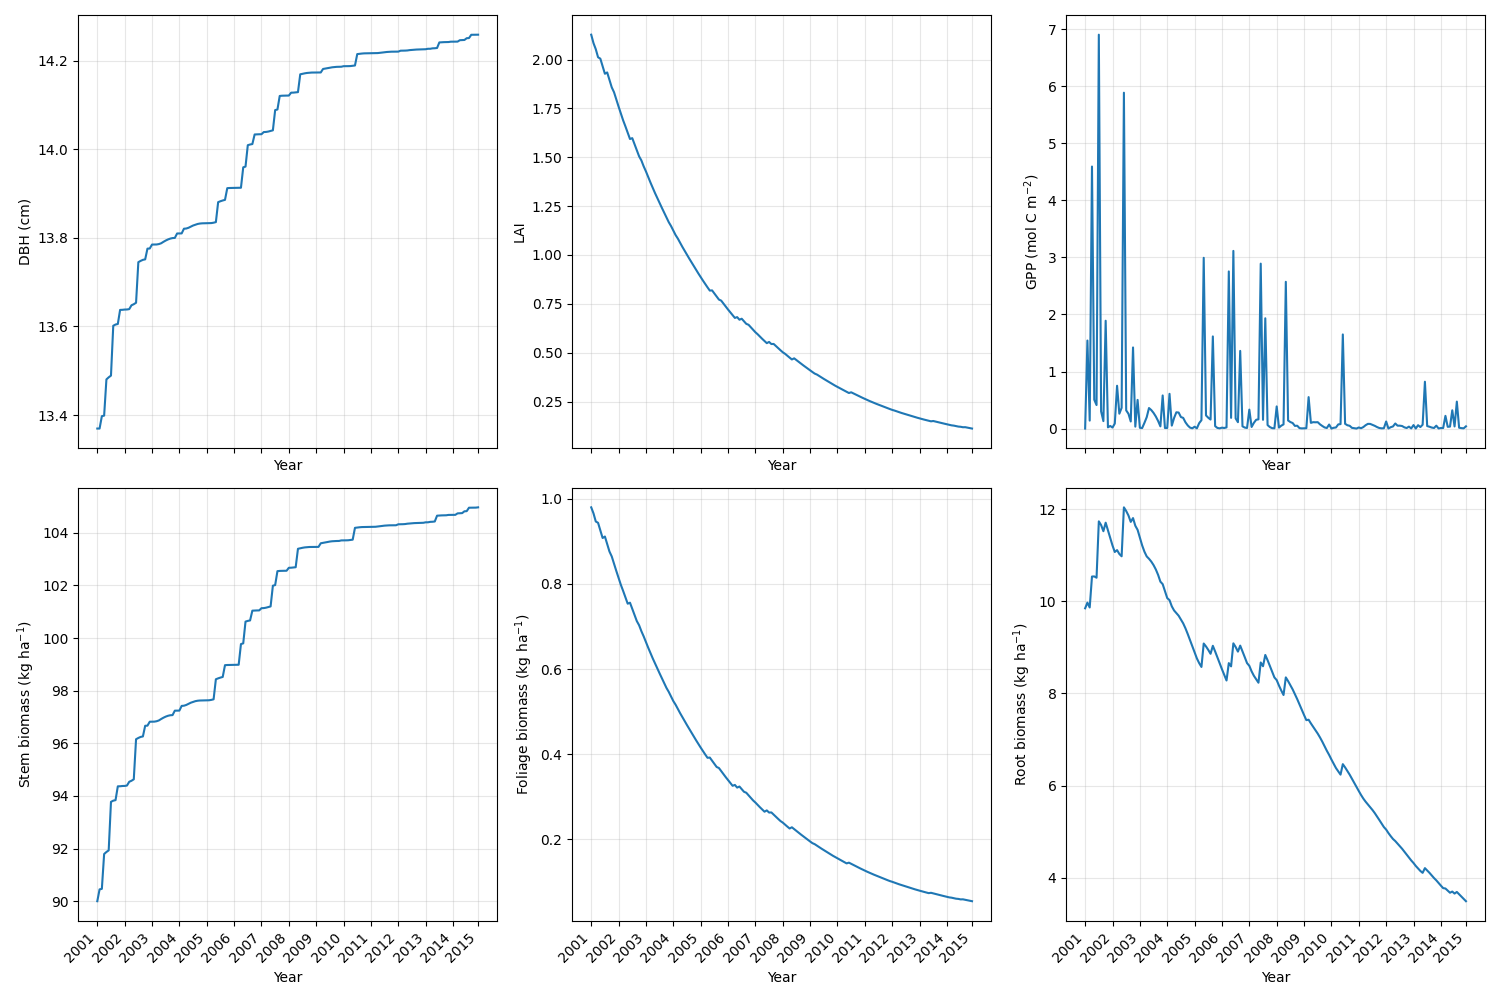
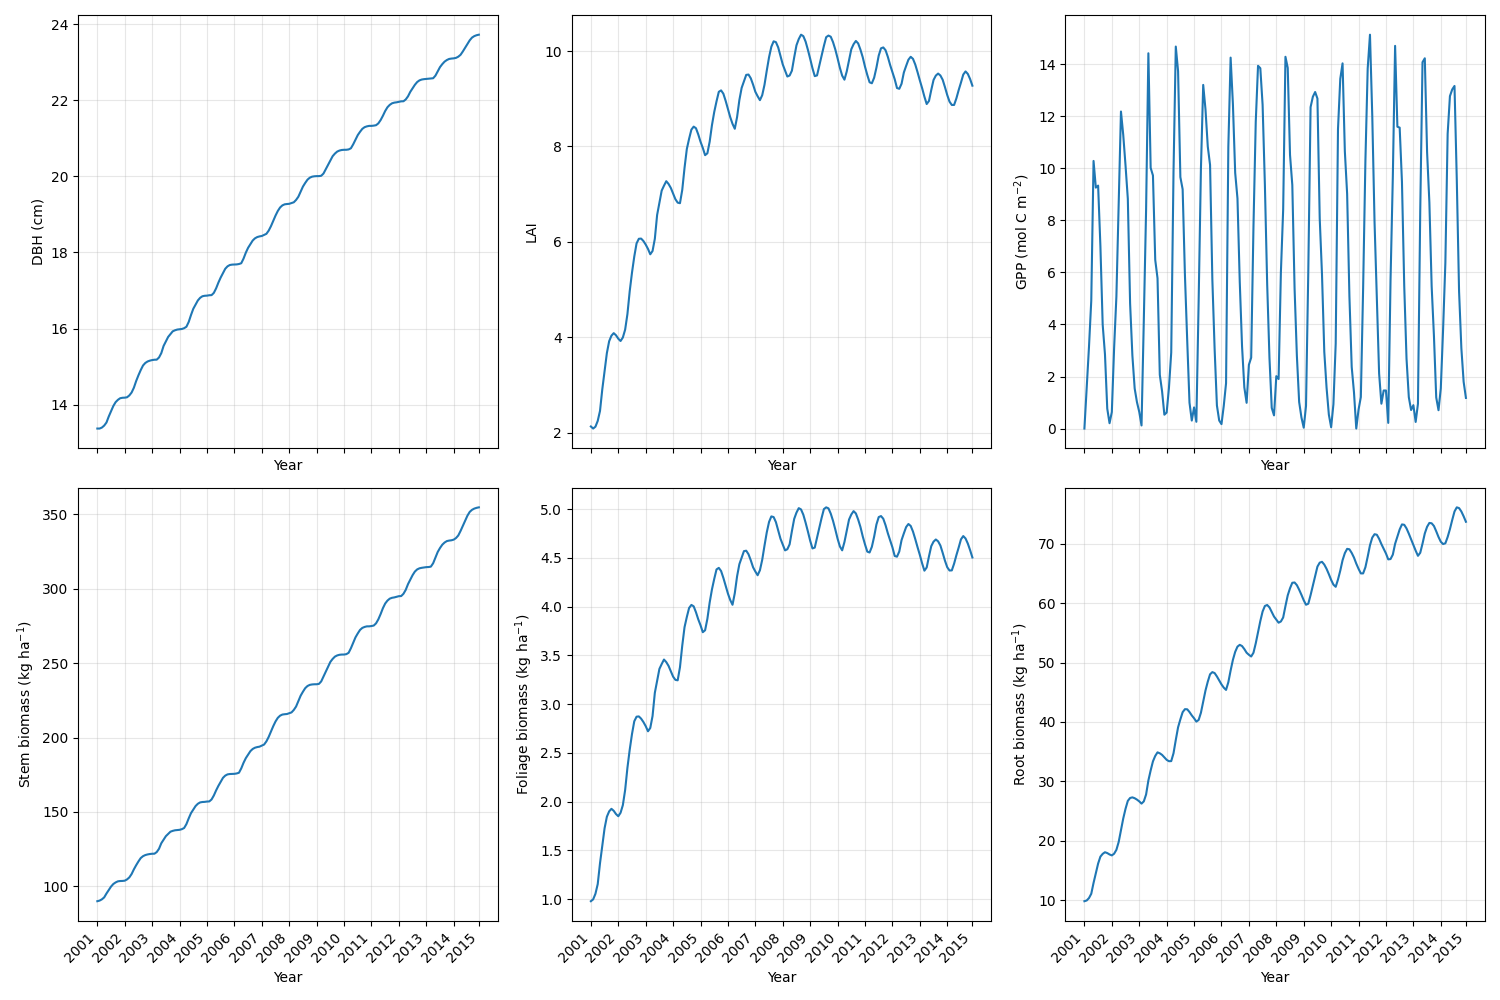
Fixed the decaying growth in LAI and foliage mass

diff --git a/src/trunx/gp3/helper_function.py b/src/trunx/gp3/helper_function.py
@@ -463,7 +463,7 @@ def model_step(state, climate_month, params, site, species):
     eta_R = compute_root_allocation(fN, phi, params.pRx, params.pRn)
 
     B = compute_dbh(WS, params.aWS, params.nWS)
-    eta_F, eta_S = compute_allocation_fractions(WS, eta_R, params.pFS2, params.pFS20)
+    eta_F, eta_S = compute_allocation_fractions(B, eta_R, params.pFS2, params.pFS20)
 
     # Turnover
     gammaF = compute_litterfall_rate(age_months, params.gammaF0, params.gammaF1, params.tgammaF)
@@ -476,7 +476,7 @@ def model_step(state, climate_month, params, site, species):
     # Self-thinning
     WS_new, N_new = apply_self_thinning(WS_new, N, params.wSx1000)
 
-    ASW_new = jnp.clip(ASW + precip - VPD * n_days * 20.0 * phi, 0.0, site.ASW_max)
+    ASW_new = jnp.clip(ASW + precip - VPD * n_days * 0.1 * lightIntcptn, 0.0, site.ASW_max)
 
     new_state = State(WF=WF_new, WR=WR_new, WS=WS_new, N=N_new, ASW=ASW_new, age=age_months + 1.0)
 

diff --git a/src/trunx/gp3/model_inputs.py b/src/trunx/gp3/model_inputs.py
@@ -21,12 +21,14 @@ class State(NamedTuple):
 class ClimateData(NamedTuple):
     """Climate data information."""
 
-    T_avg: jnp.ndarray  # Average monthly temperature
-    VPD: jnp.ndarray  # Vapor pressure deficit
-    precip: jnp.ndarray  # Monthly precipitation
-    solar_rad: jnp.ndarray  # Monthly solar radiation
+    T_avg: jnp.ndarray  # Average monthly temperature (°C)
+    VPD: jnp.ndarray  # Vapor pressure deficit (kPa)
+    precip: jnp.ndarray  # Monthly precipitation (mm)
+    solar_rad: jnp.ndarray  # Monthly solar radiation (MJ/m²)
     frost_days: jnp.ndarray  # Number of frost days in a month
     n_days: jnp.ndarray  # Number of days in each month
+    co2: jnp.ndarray  # Atmospheric CO2 concentration (ppm)
+    d13catm: jnp.ndarray  # Atmospheric d13C value (‰)
     start_month: np.datetime64  # Start month of climate data
 
 
